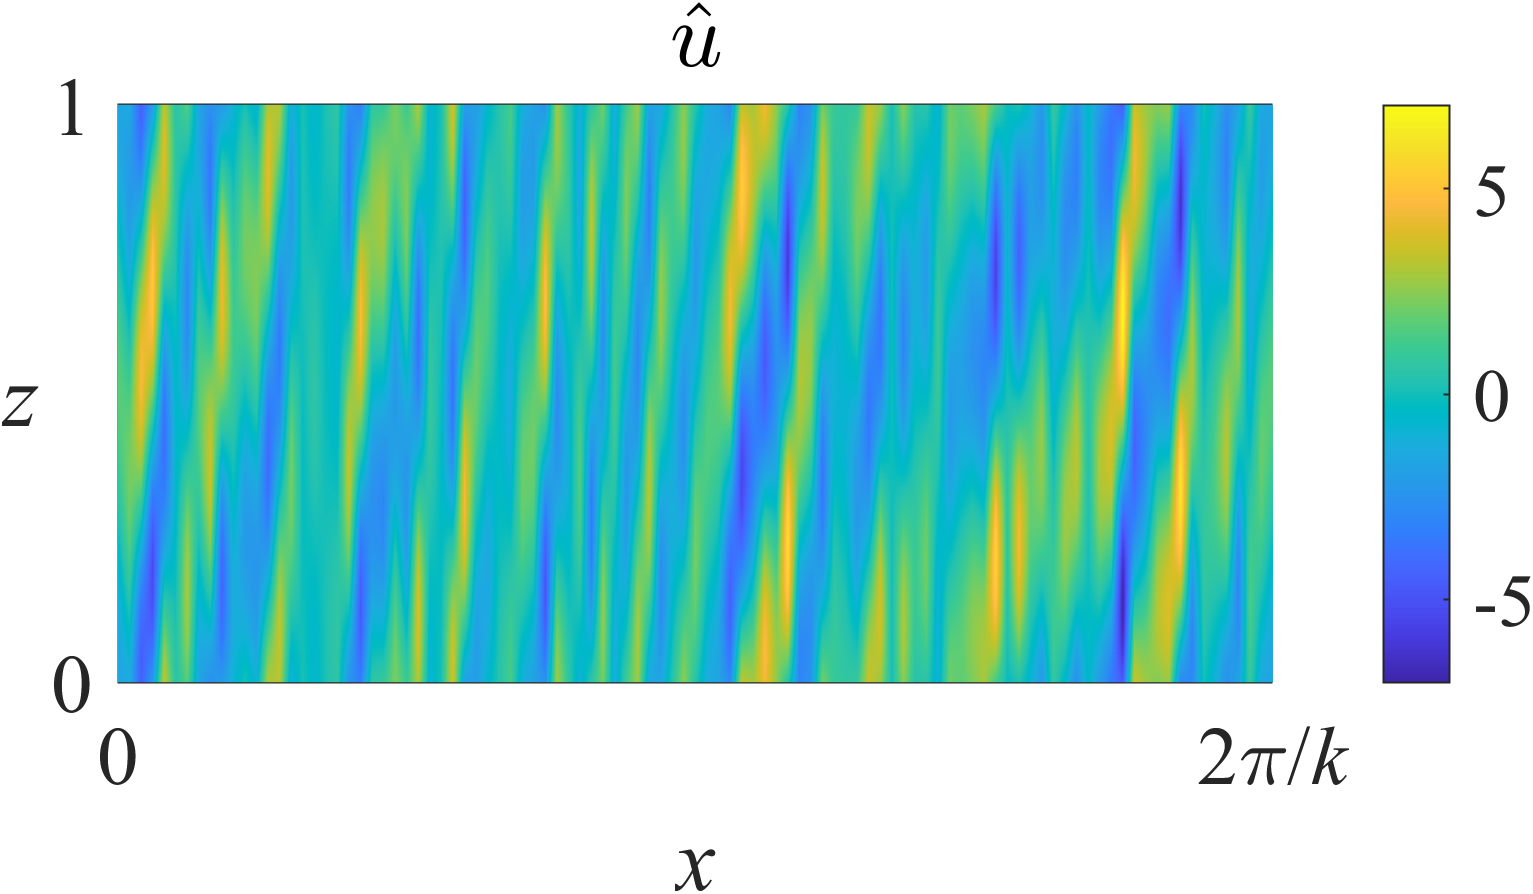
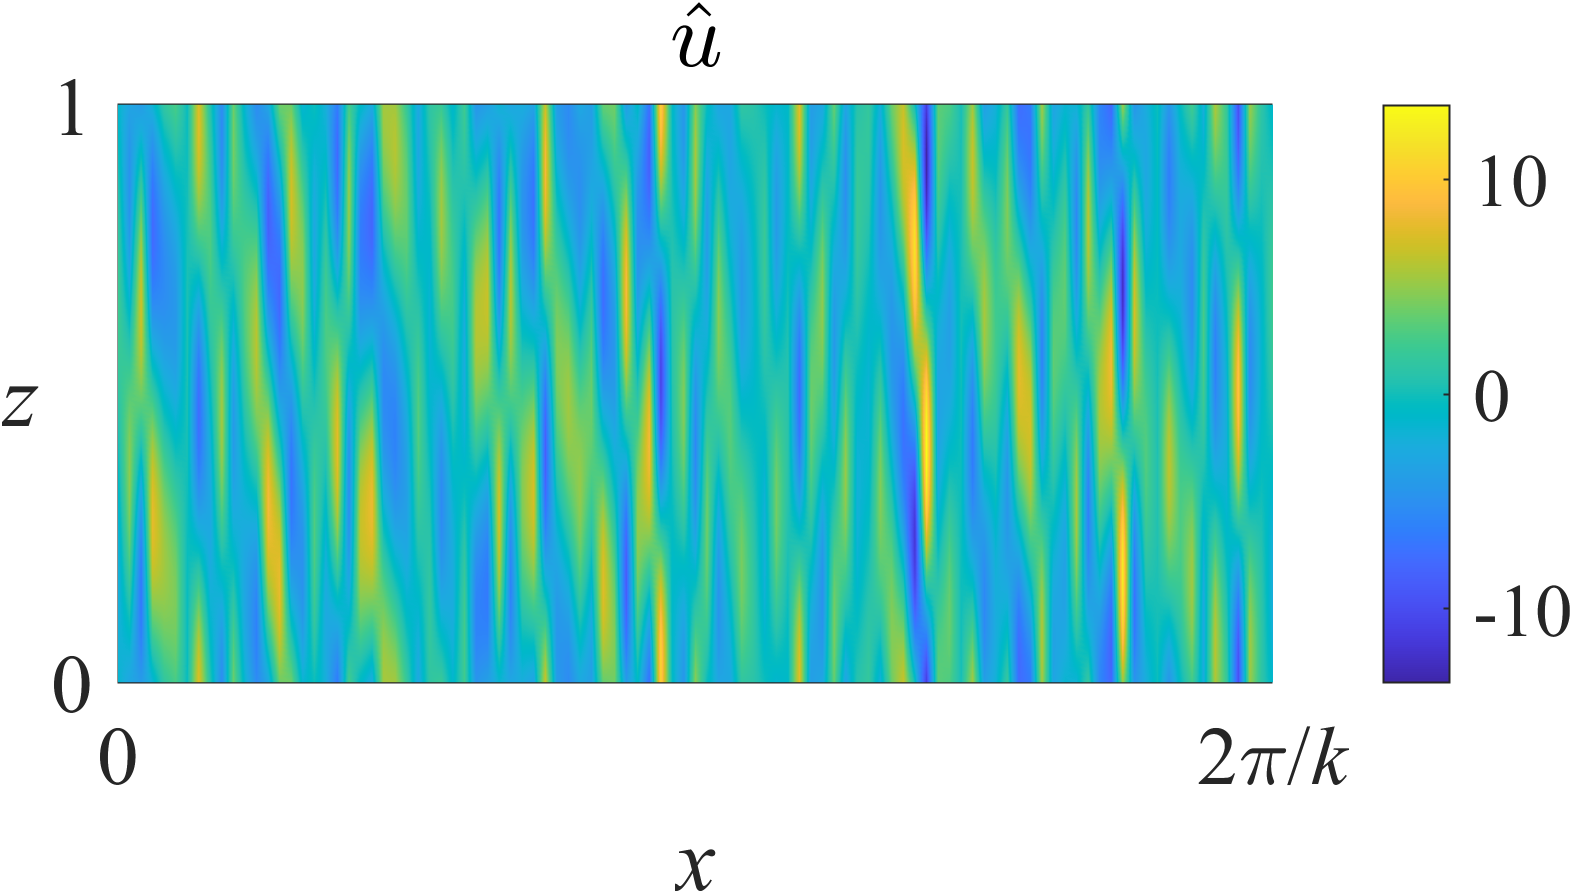
update 2024/08/19

diff --git a/reproduce_refs/linear_stability_analysis/amplifying_mode.m b/reproduce_refs/linear_stability_analysis/amplifying_mode.m
@@ -15,11 +15,11 @@ N = 100;%size = 2N+1
 
 [eig_vec,eig_val] = eig_Radko2016(Ri,Pe,Rp,Pr,tau,kx,ky,N);
 
-writematrix(eig_vec,'eig_vec_tab.txt','Delimiter','tab')
-writematrix(eig_val,'eig_val_tab.txt','Delimiter','tab')
-fprintf('size of eig_vec is %s\n', mat2str(size(eig_vec)));
+% writematrix(eig_vec,'eig_vec_tab.txt','Delimiter','tab')
+% writematrix(eig_val,'eig_val_tab.txt','Delimiter','tab')
+% fprintf('size of eig_vec is %s\n', mat2str(size(eig_vec)));
 
-[maxreal,maxindex] = min(real(diag(eig_val)));
+[maxreal,maxindex] = max(real(diag(eig_val)))
 
 varnum = 6; % number of variables [u,v,w,p,T,S]
 
@@ -63,7 +63,7 @@ for x_index=1:length(x)
 end
 
 % plot 
-f = figure;
+f1 = figure;
 %%%%%%%%%%%%%%%%%%%%%%%%%%%%%%%%%%%
 pcolor(x,z,u); shading interp;
 % colormap(turbo);
@@ -77,6 +77,7 @@ yticks([0 1])
 pbaspect([2 1 1])
 savefigure(gca,'amplifying_mode_test_u.png');
 %%%%%%%%%%%%%%%%%%%%%%%%%%%%%%%%%%%
+f2 = figure;
 pcolor(x,z,w); shading interp;
 % colormap(turbo);
 colorbar;
@@ -89,6 +90,7 @@ yticks([0 1])
 pbaspect([2 1 1])
 savefigure(gca,'amplifying_mode_test_w.png');
 %%%%%%%%%%%%%%%%%%%%%%%%%%%%%%%%%%%
+f3 = figure;
 pcolor(x,z,T); shading interp;
 % colormap(turbo);
 colorbar;
@@ -101,6 +103,7 @@ yticks([0 1])
 pbaspect([2 1 1])
 savefigure(gca,'amplifying_mode_test_T.png');
 %%%%%%%%%%%%%%%%%%%%%%%%%%%%%%%%%%%
+f4 = figure;
 pcolor(x,z,S); shading interp;
 % colormap(turbo);
 colorbar;

diff --git a/reproduce_refs/linear_stability_analysis/eig_Radko2016.m b/reproduce_refs/linear_stability_analysis/eig_Radko2016.m
@@ -19,7 +19,7 @@ function [eigenvector,eigenvalue] = eig_Radko2016(Ri,Pe,Rp,Pr,tau,kx,ky,N)
      % Differentiation Matrices 
      [z1, D1] = fourdif(nSize, 1);
      [z, D2] = fourdif(nSize, 2);
-
+     
      % interval transformation
      z = 0 + (1/(2*pi))*(1-0)*z;
 

diff --git a/reproduce_refs/linear_stability_analysis/eigenvalue_test.m b/reproduce_refs/linear_stability_analysis/eigenvalue_test.m
@@ -4,8 +4,8 @@ clc;
 setfigure;
 
 % define paramesters
-Ri = 10.; % Richardson number
-Pe = 1e2; % Peclet number
+Ri = 1.; % Richardson number
+Pe = 1e4; % Peclet number
 Rp = 2.; % density ratio
 Pr = 10.;
 tau = 0.01; % diffusivity ratio
